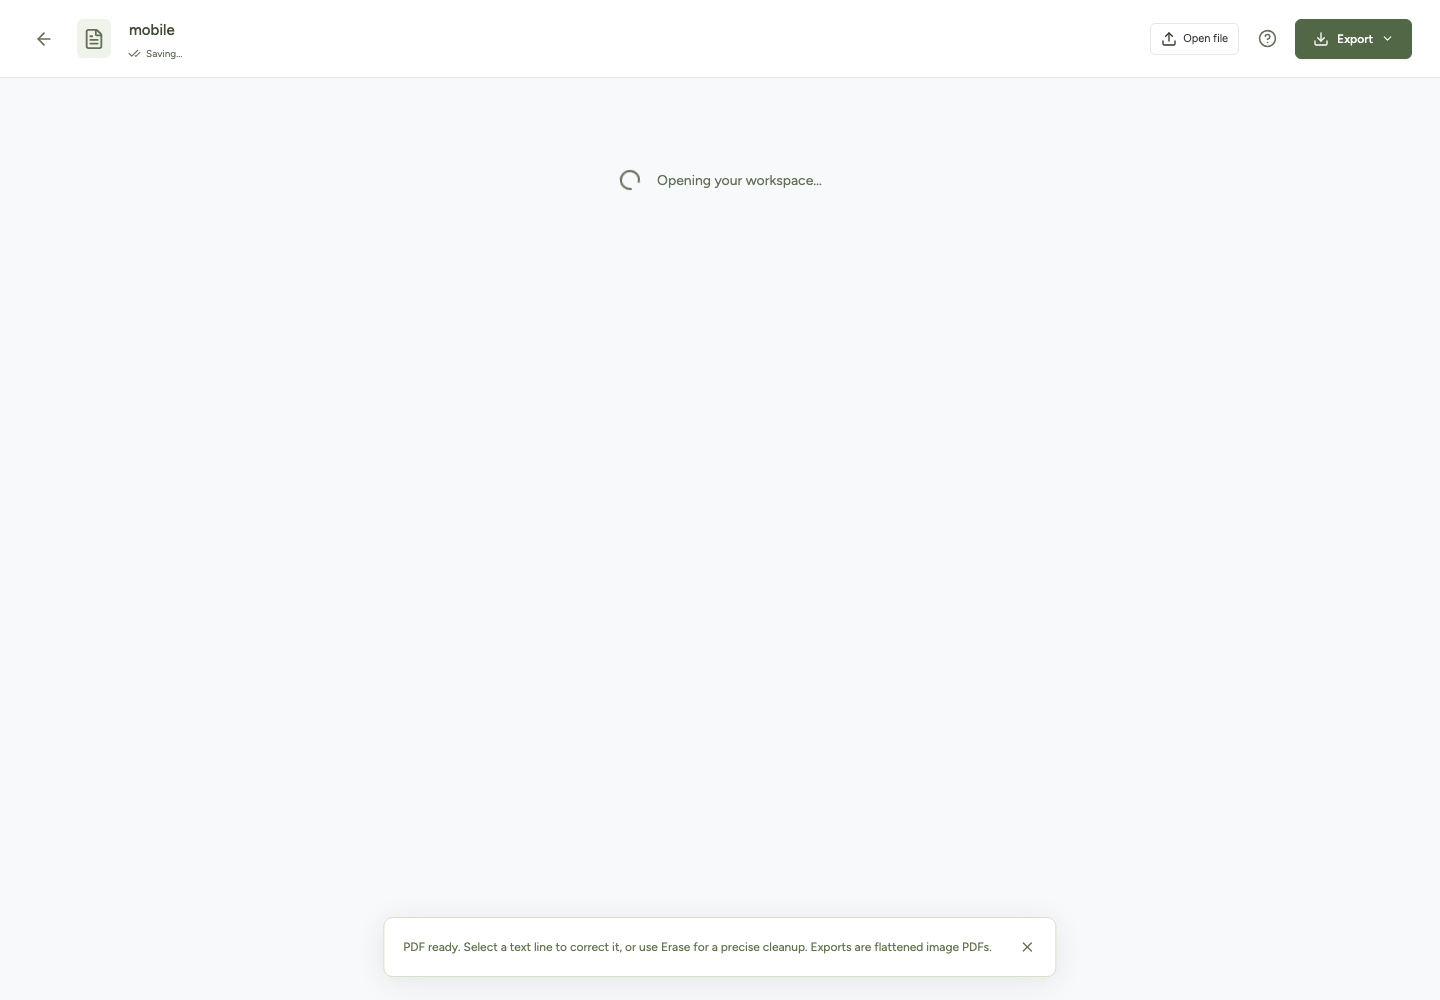
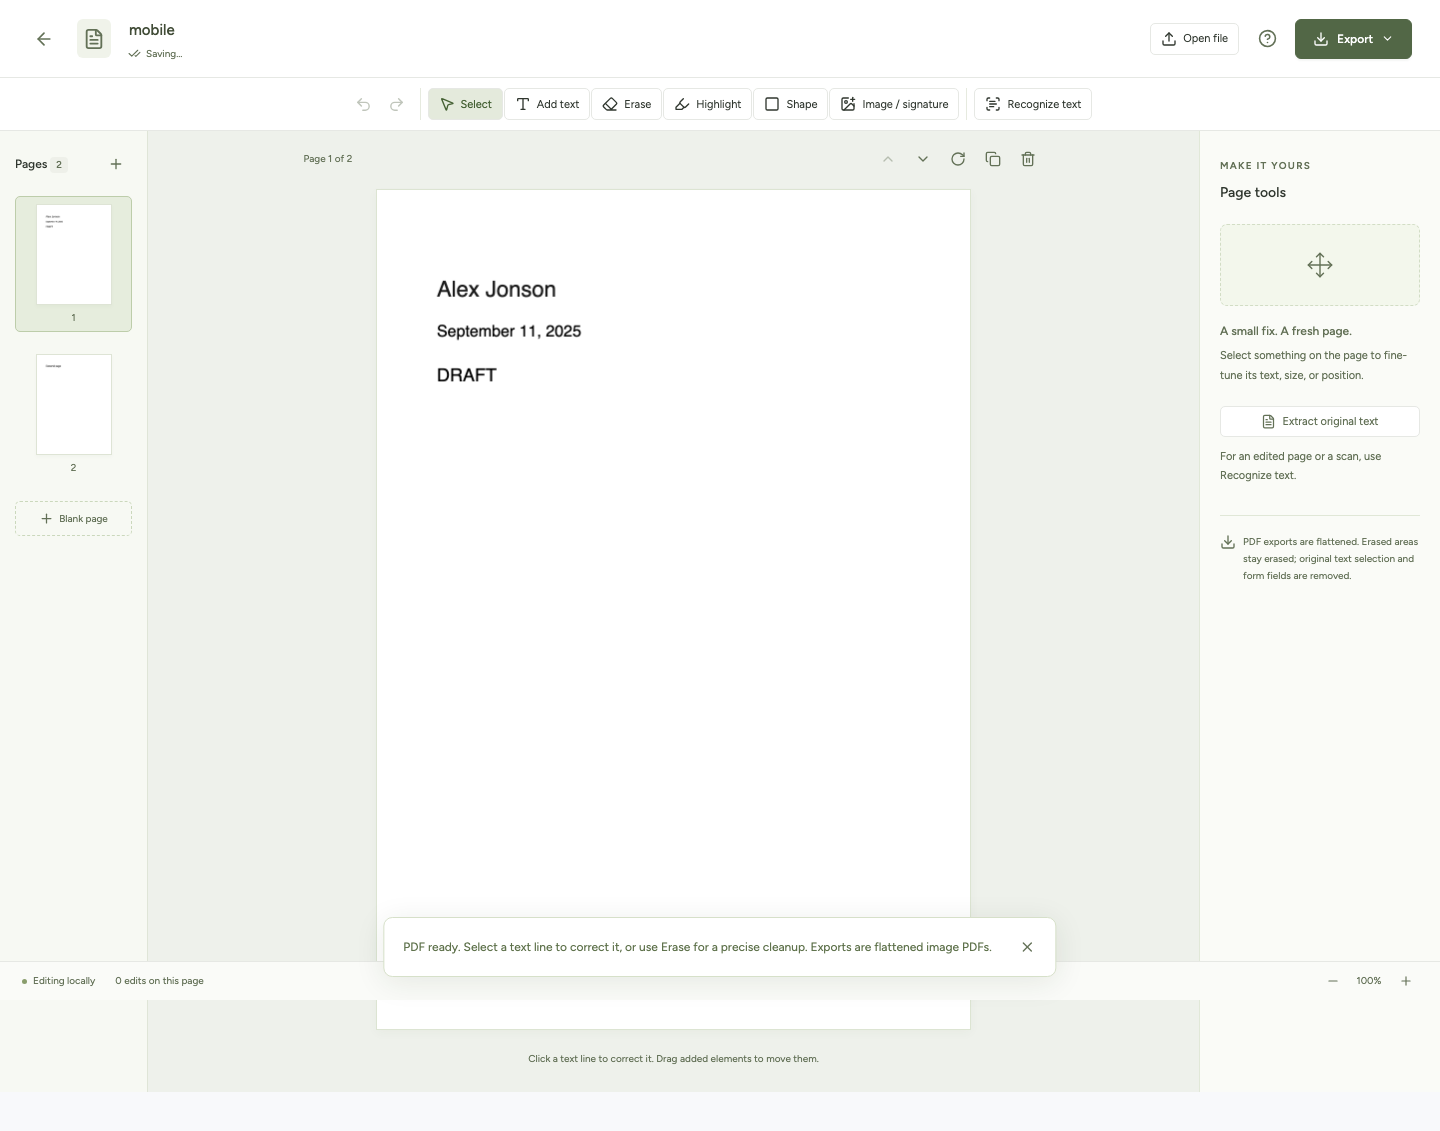
Wait for the document canvas before browser assertions

diff --git a/tests/editor.spec.ts b/tests/editor.spec.ts
@@ -41,6 +41,9 @@ async function upload(
     .setInputFiles({ buffer, name, mimeType });
   await expect(page.getByLabel("Document name")).toBeVisible();
   await expect(page.locator(".busy-overlay")).toHaveCount(0);
+  await expect(
+    page.locator(".document-prose, .pdf-canvas").first(),
+  ).toBeVisible();
 }
 async function exportFile(page: Page, label: RegExp) {
   await page.getByRole("button", { name: "Export", exact: true }).click();
